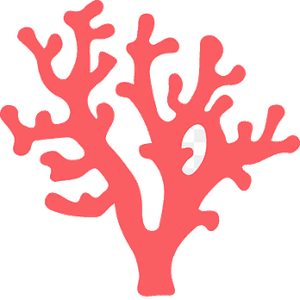
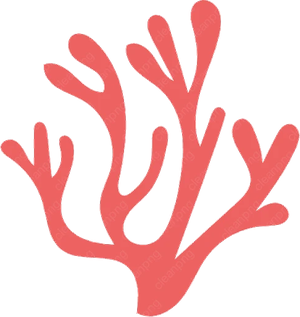
Swap red coral (new image), move Totoro top-left, shift coral+seaweed right clear of content

diff --git a/index.html b/index.html
@@ -85,8 +85,8 @@
   .app{max-width:760px;margin:0 auto;display:flex;flex-direction:column;gap:16px}
 
   /* little Totoro companion — click to toggle light/dark */
-  .mascot{position:fixed;right:14px;bottom:8px;width:94px;z-index:6;
-    padding:0;border:0;background:none;cursor:pointer;transform-origin:bottom center;
+  .mascot{position:fixed;left:14px;top:12px;width:94px;z-index:6;
+    padding:0;border:0;background:none;cursor:pointer;transform-origin:top center;
     -webkit-tap-highlight-color:transparent;
     filter:drop-shadow(0 7px 11px rgba(30,45,90,.28));
     animation:bob 4.5s ease-in-out infinite}
@@ -95,7 +95,7 @@
   .mascot:active img{transform:scale(.95)}
   .mascot:focus-visible{outline:none;border-radius:16px;box-shadow:0 0 0 3px var(--ring)}
   @keyframes bob{0%,100%{transform:translateY(0) rotate(-3deg)}50%{transform:translateY(-7px) rotate(3deg)}}
-  @media (max-width:600px){.mascot{width:62px;right:8px;bottom:6px}}
+  @media (max-width:600px){.mascot{width:62px;left:auto;top:auto;right:8px;bottom:6px;transform-origin:bottom center}}
   @media (prefers-reduced-motion:reduce){.mascot{animation:none;transform:rotate(-2deg)}}
 
   /* ambient layers */
@@ -158,8 +158,8 @@
     filter:drop-shadow(0 4px 10px rgba(20,60,90,.22))}
   .c-blue{left:-2vw;bottom:-52px;width:320px}
   .c-orange{left:-1vw;bottom:-30px;width:200px}
-  .c-seaweed{right:120px;bottom:-6px;width:350px;opacity:.85}
-  .c-red{right:130px;bottom:-22px;width:162px;opacity:.9}
+  .c-seaweed{right:calc(50vw - 682px);bottom:-6px;width:350px;opacity:.85}
+  .c-red{right:calc(50vw - 640px);bottom:-14px;width:152px;opacity:.92}
   @media (max-width:640px){.c-blue{width:210px;bottom:-34px}.c-orange{left:-2vw;width:150px}
     .c-seaweed{display:none}.c-red{width:120px;right:70px}}
   .bubble{position:absolute;bottom:-40px;border-radius:50%;opacity:0;
@@ -192,8 +192,8 @@
     96%,100%{opacity:0;transform:translate(12vw,48vh) rotate(158deg)}}
 
   /* night-switch fx: moon + zzz drifting off Totoro */
-  .nightfx{position:fixed;right:80px;bottom:96px;z-index:7;pointer-events:none}
-  @media (max-width:600px){.nightfx{right:60px;bottom:72px}}
+  .nightfx{position:fixed;left:74px;top:60px;z-index:7;pointer-events:none}
+  @media (max-width:600px){.nightfx{left:auto;top:auto;right:60px;bottom:72px}}
   .nightfx span{position:absolute;opacity:0}
   .nightfx.play span{animation:floatUp 2.1s ease-out forwards}
   @keyframes floatUp{0%{opacity:0;transform:translate(0,6px) scale(.6)}
